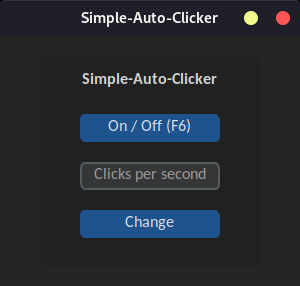
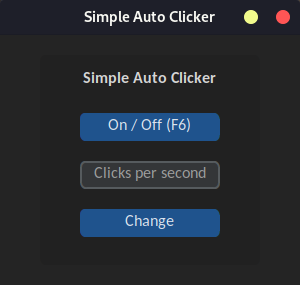
Update assets and project name

diff --git a/simple-auto-clicker/main.py b/simple-auto-clicker/main.py
@@ -19,7 +19,7 @@ thread = None
 clicks_ps = 10
 
 # Detect mouse.ico path
-icon_path = os.path.join(os.path.dirname(__file__), "mouse.png")
+icon_path = os.path.join(os.path.dirname(__file__), "mouse_circle.png")
 
 
 # Clicks per second input
@@ -100,13 +100,13 @@ customtkinter.set_default_color_theme("dark-blue")
 app.geometry("300x250")
 app.resizable(0, 0)
 app.iconphoto(True, tkinter.PhotoImage(file=icon_path))
-app.title("Simple-Auto-Clicker")
+app.title("Simple Auto Clicker")
 
 frame = customtkinter.CTkFrame(master=app)
 frame.pack(pady=20, padx=40, fill="both", expand=True)
 
 label = customtkinter.CTkLabel(
-    master=frame, text="Simple-Auto-Clicker", font=("Carlito", 16, "bold"))
+    master=frame, text="Simple Auto Clicker", font=("Carlito", 16, "bold"))
 label.pack(pady=10, padx=10)
 
 on_off_button = customtkinter.CTkButton(

diff --git a/README.md b/README.md
@@ -1,6 +1,6 @@
 <h1 align="center"> <img src="assets/logo.png" alt="Simple-Auto-Clicker"/>
 <br/>
-Simple-Auto-Clicker
+Simple Auto Clicker
 </h1>
 
 <p align="center"><b>A simple Auto-clicker designed for incremental games like Cookie Clicker written in Python.
